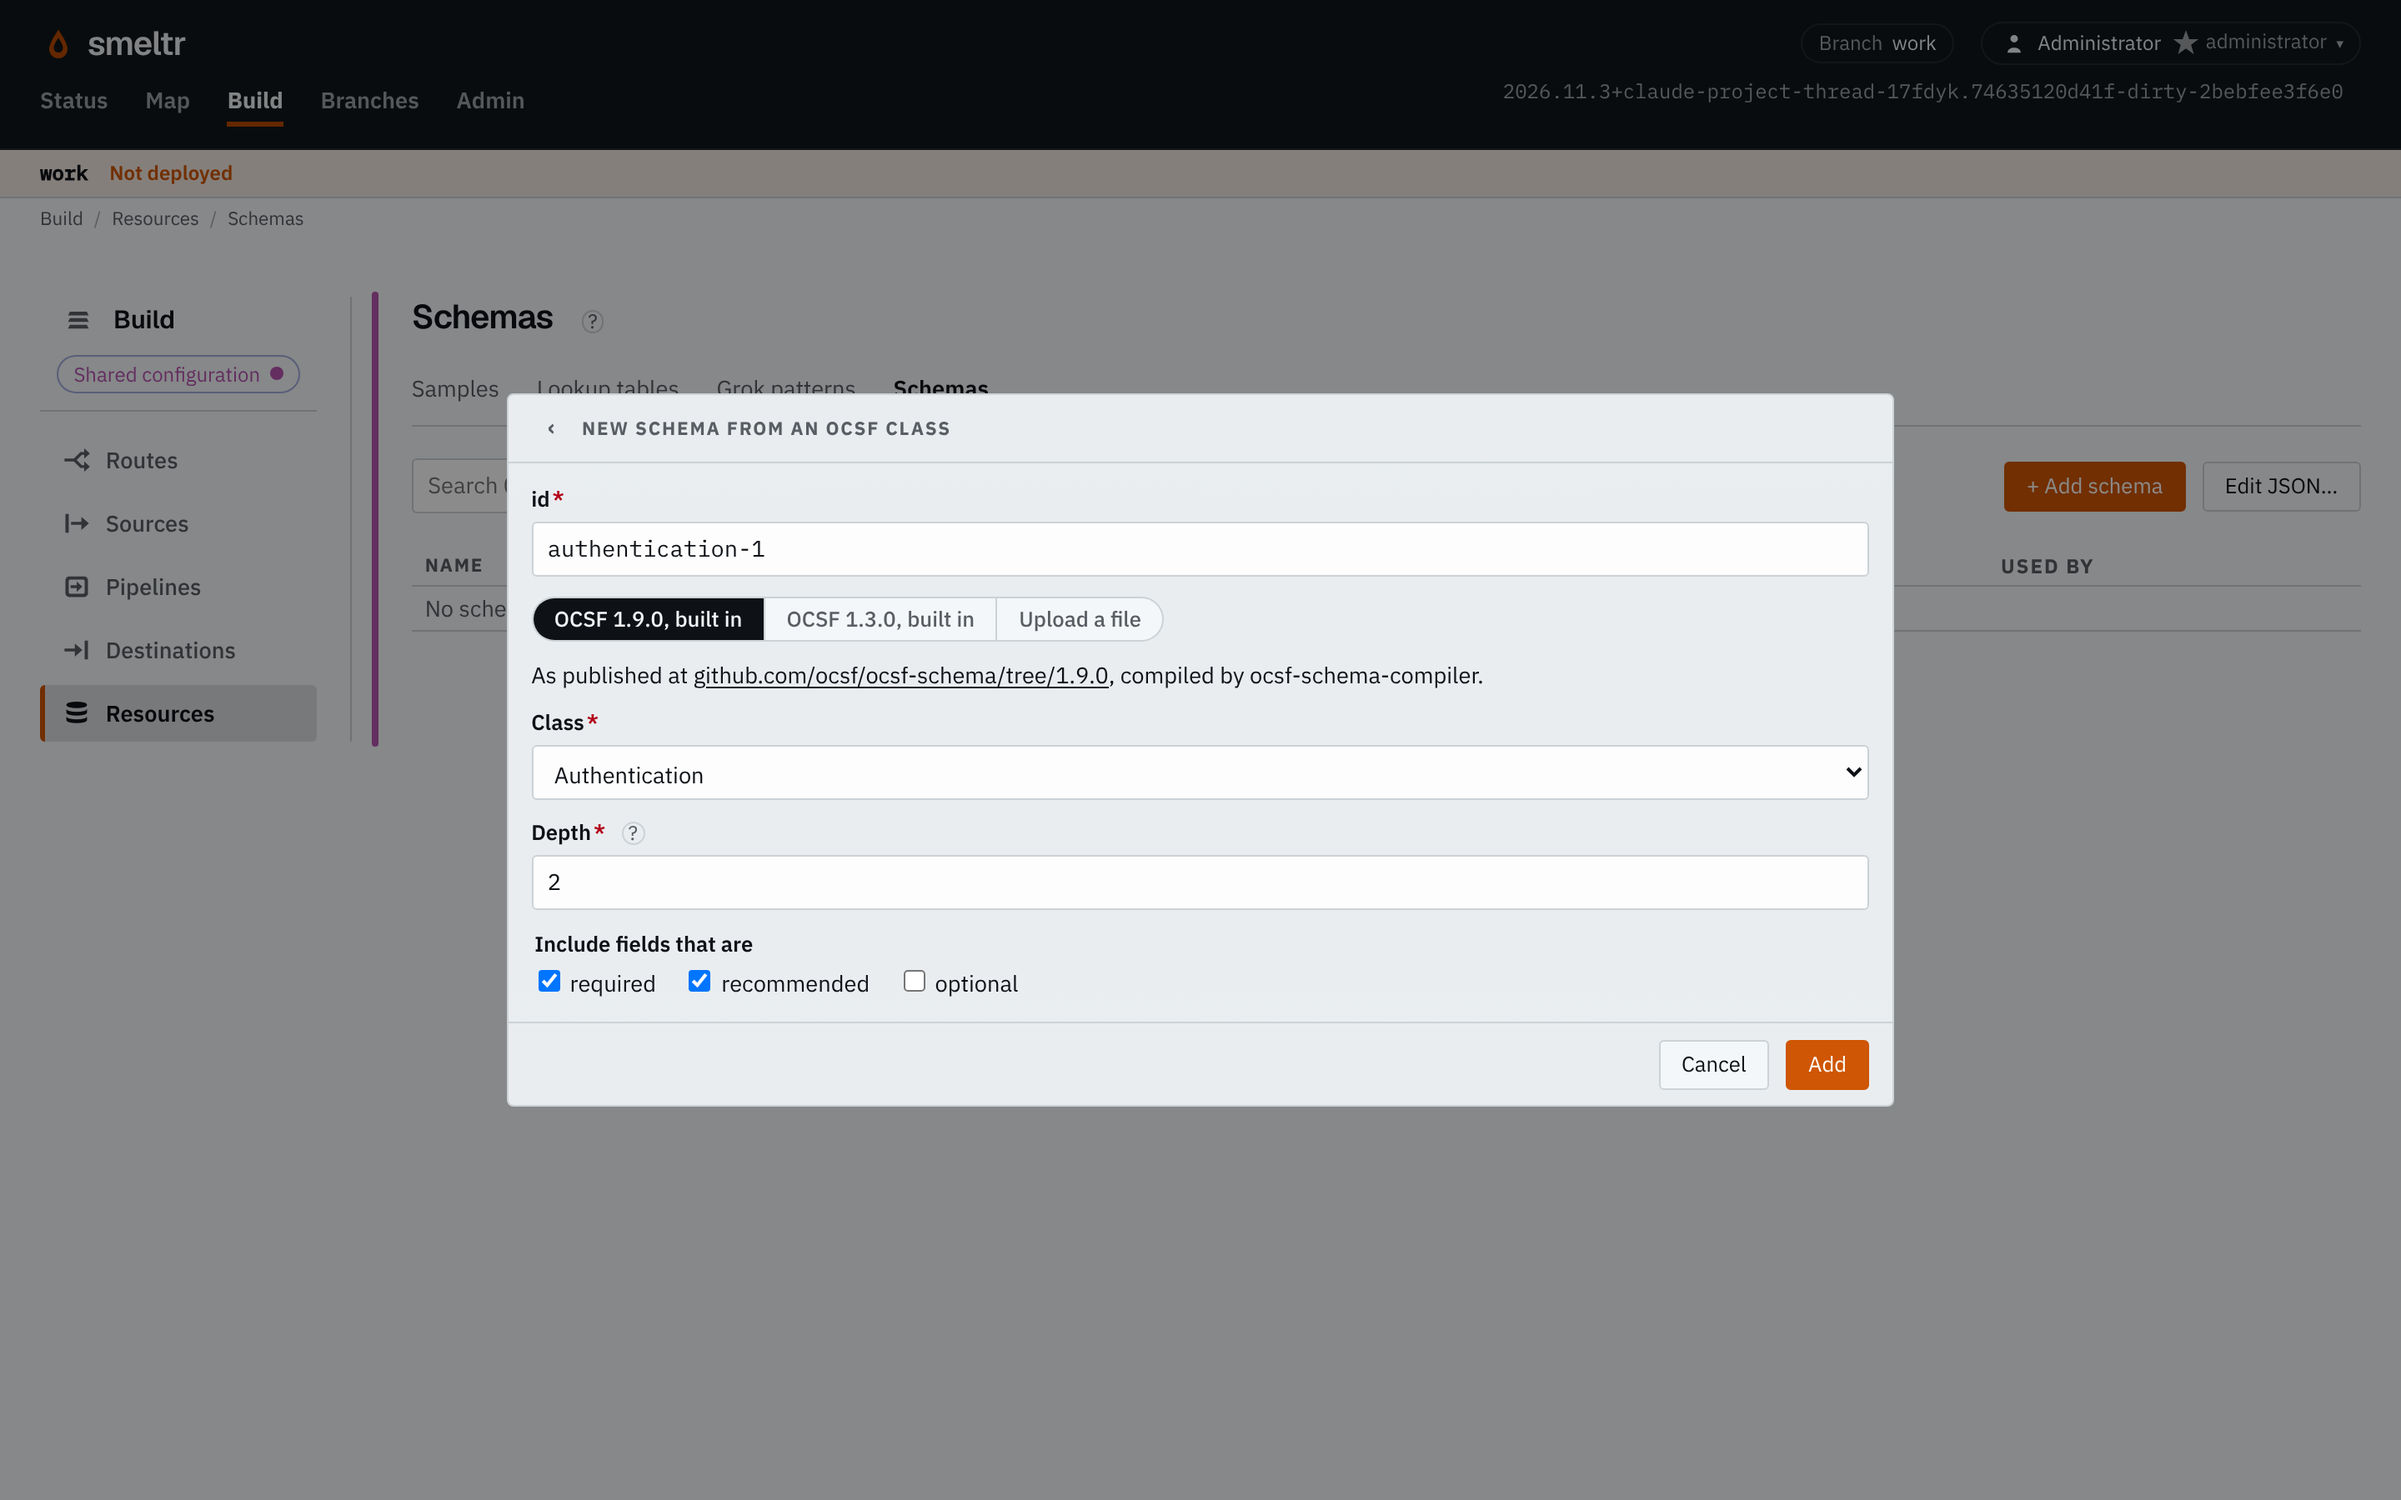
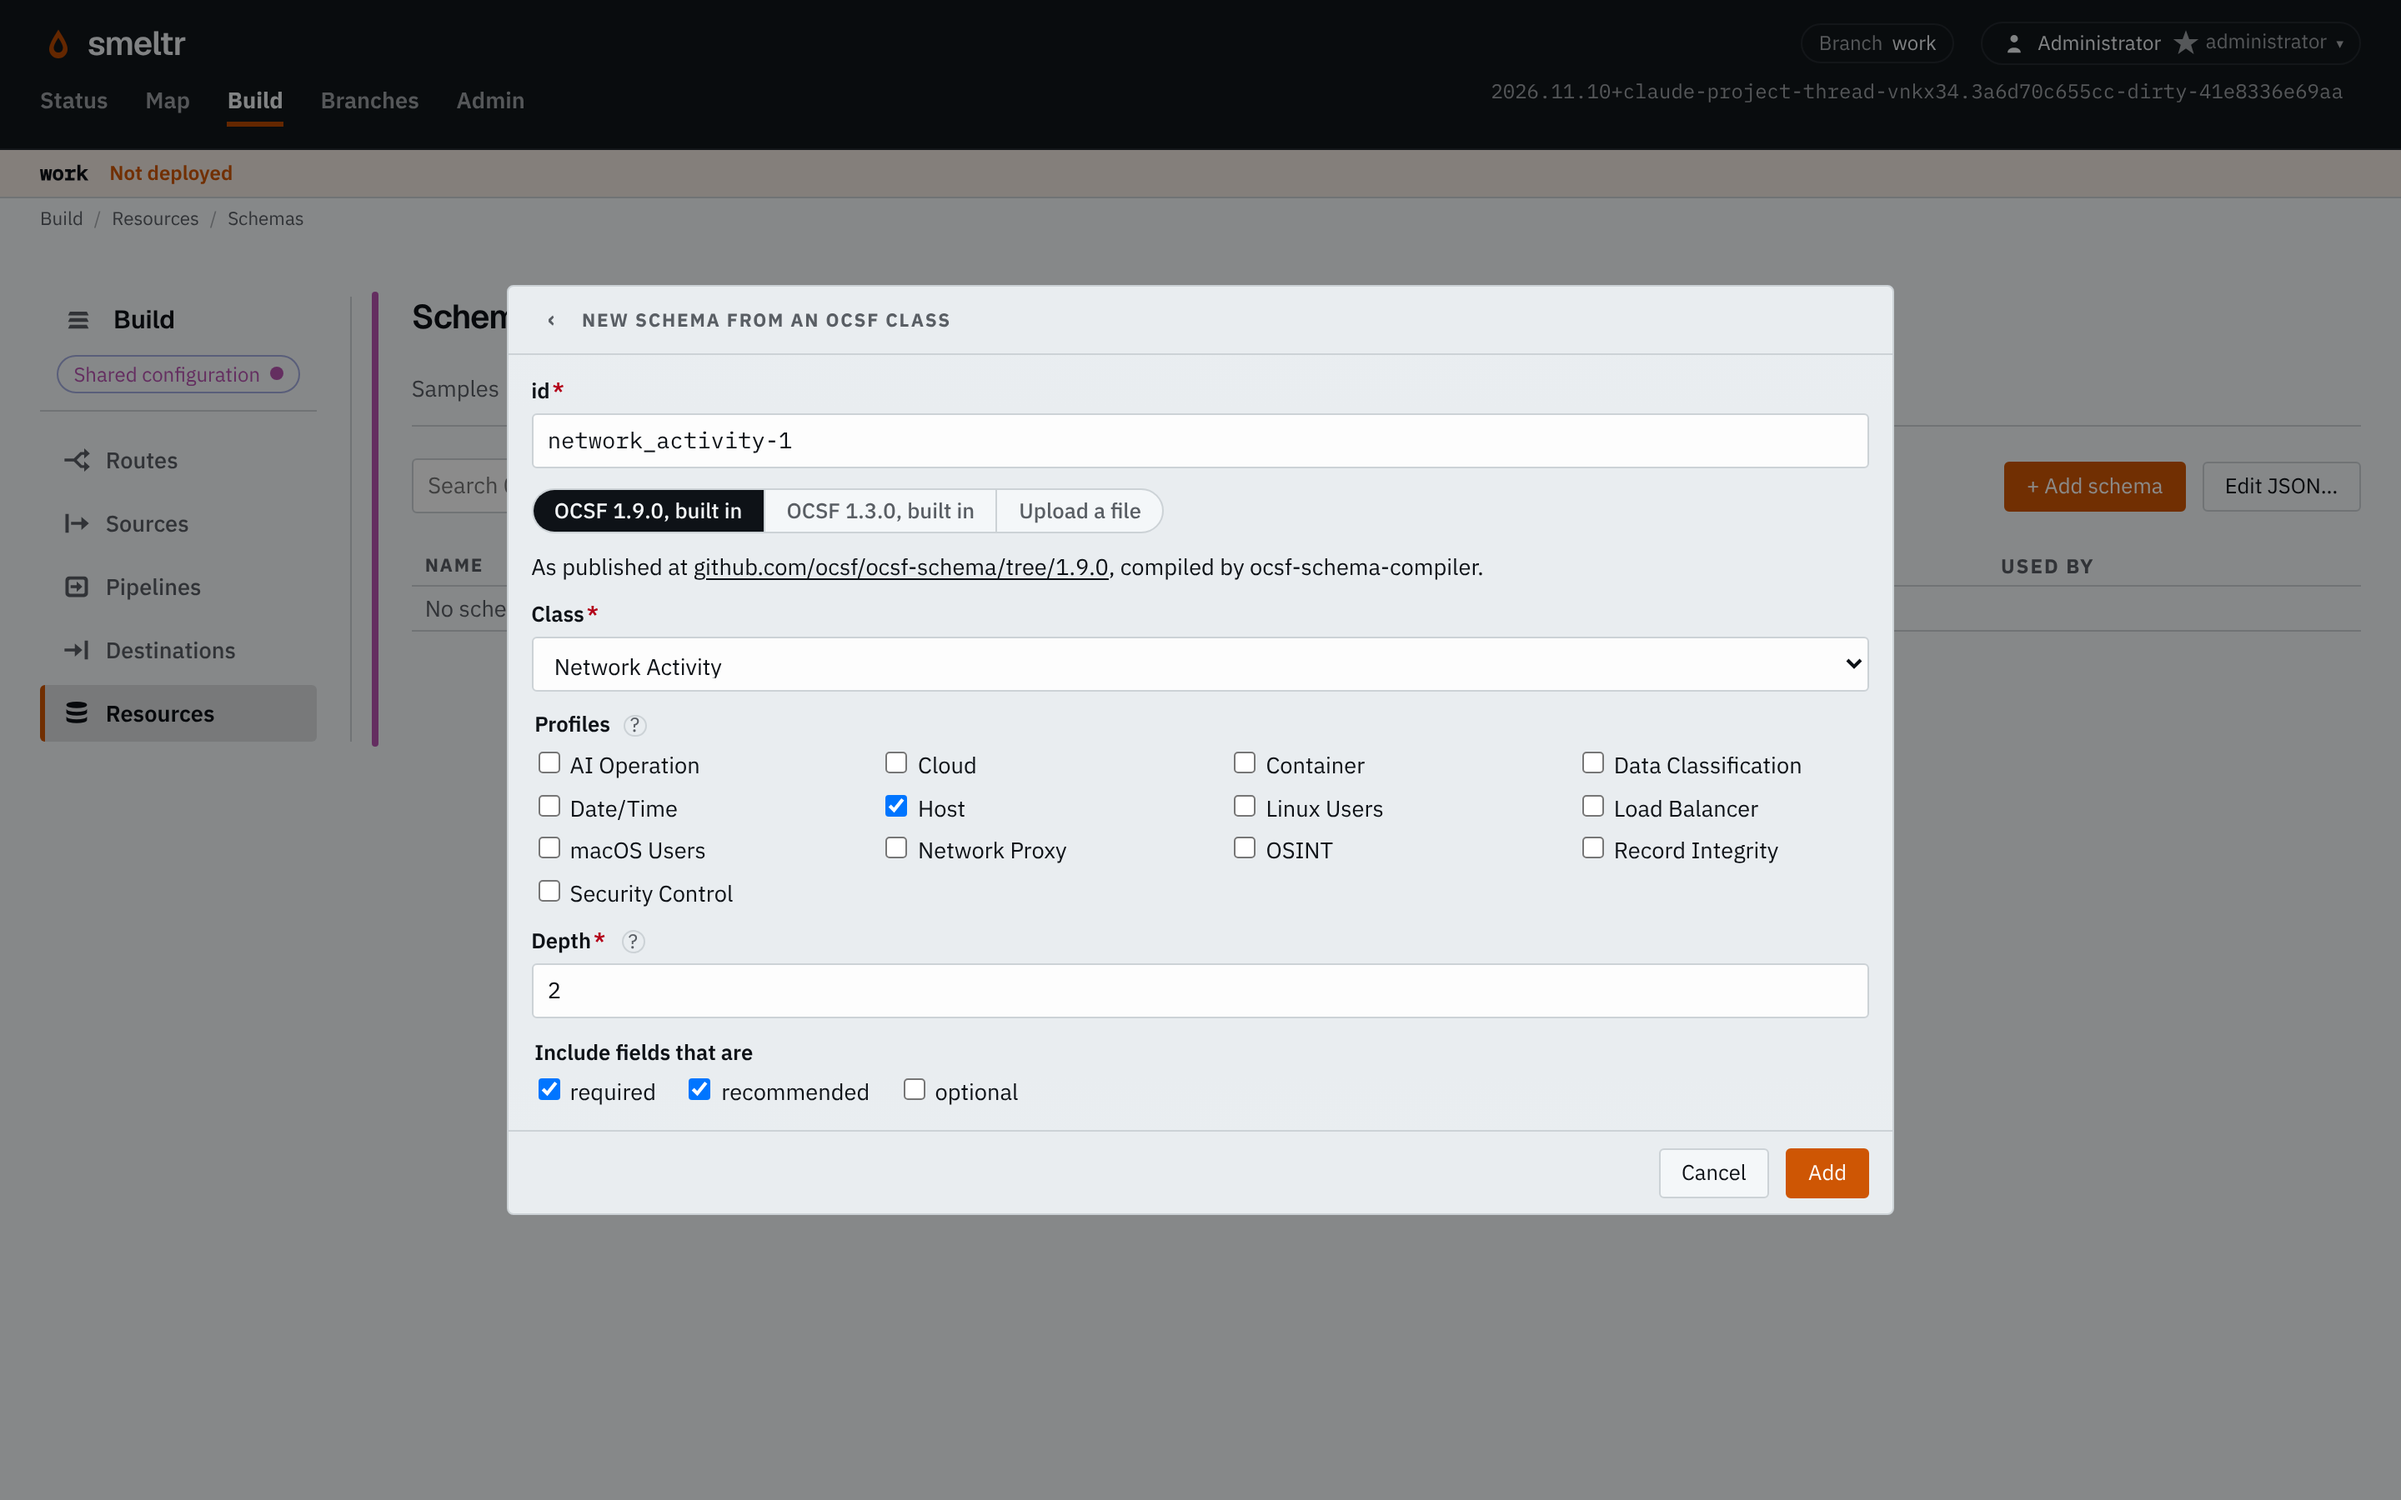
Website: tick an OCSF class's profiles (#651)
* Website: tick an OCSF class's profiles, with a new screenshot of the dialog

Claude-Session: https://claude.ai/code/session_016X7h2RJ7gAo2ixinzWJeBN

* Website: tick profiles only where the class takes them, in one verb

Claude-Session: https://claude.ai/code/session_016X7h2RJ7gAo2ixinzWJeBN

---------

diff --git a/website/src/routes/docs/schemas/+page.svelte b/website/src/routes/docs/schemas/+page.svelte
@@ -139,6 +139,13 @@
     </li>
     <li>Choose the <strong>Class</strong>, such as <strong>Authentication</strong>.</li>
     <li>
+      If the class takes profiles, tick the <strong>Profiles</strong> your records name. A profile,
+      such as Host or Cloud, adds fields to the class, and OCSF applies it only to a record that
+      names it in
+      <code>metadata.profiles</code>. With any profile ticked, the schema requires
+      <code>metadata.profiles</code>. Leave them all unticked if your records name none.
+    </li>
+    <li>
       Leave <strong>Depth</strong> at 2 and <strong>Include fields that are</strong> at required and recommended.
       That is the list OCSF asks a producer to fill. Add optional, or a greater depth, only if your pipeline
       fills those fields.
@@ -147,9 +154,9 @@
   <ProductScreenshot
     source="schema-ocsf"
     height={1800}
-    crop={{ x: 608, y: 478, width: 1664, height: 851 }}
-    alt="The New schema from an OCSF class dialog: OCSF built in, the Authentication class, depth 2, and required and recommended checked."
-    caption="An OCSF class, read two levels deep, with the fields OCSF requires or recommends."
+    crop={{ x: 608, y: 341, width: 1664, height: 1118 }}
+    alt="The New schema from an OCSF class dialog: OCSF 1.9.0 built in, the Network Activity class, the Host profile ticked, depth 2, and required and recommended checked."
+    caption="An OCSF class with the Host profile, read two levels deep, with the fields OCSF requires or recommends."
   />
   <p>Add a schema for each class you send.</p>
 
